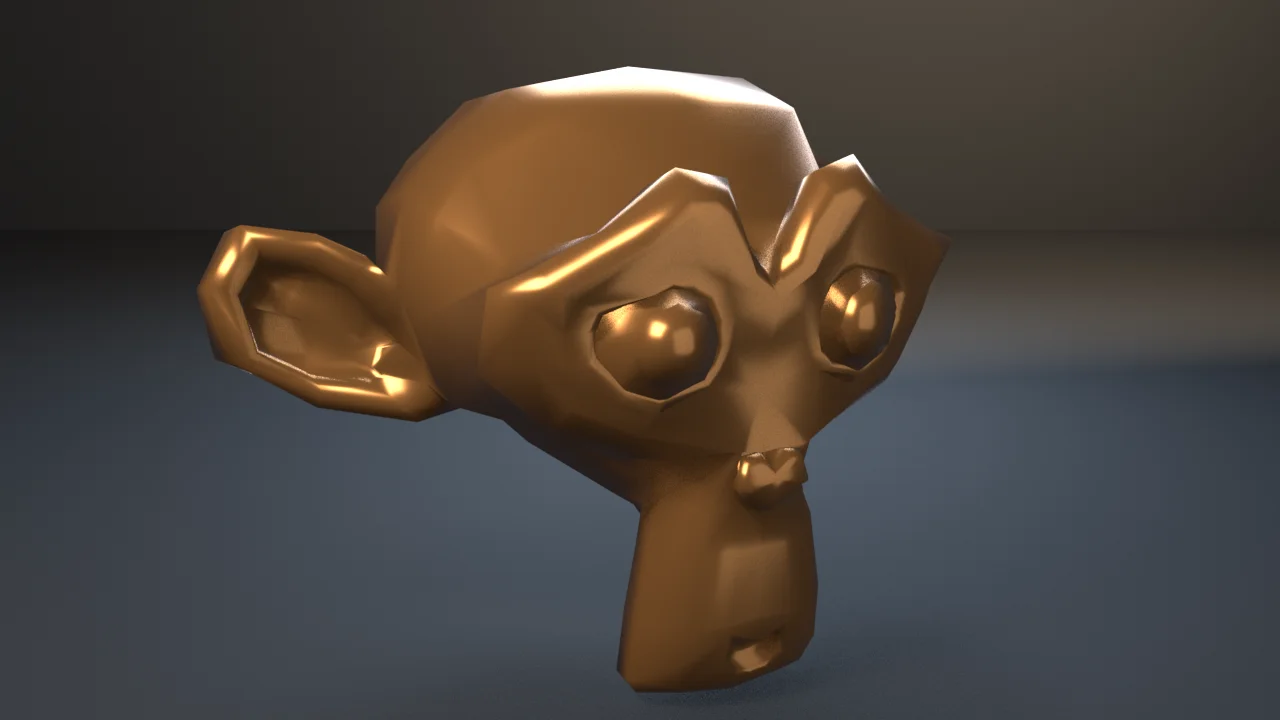
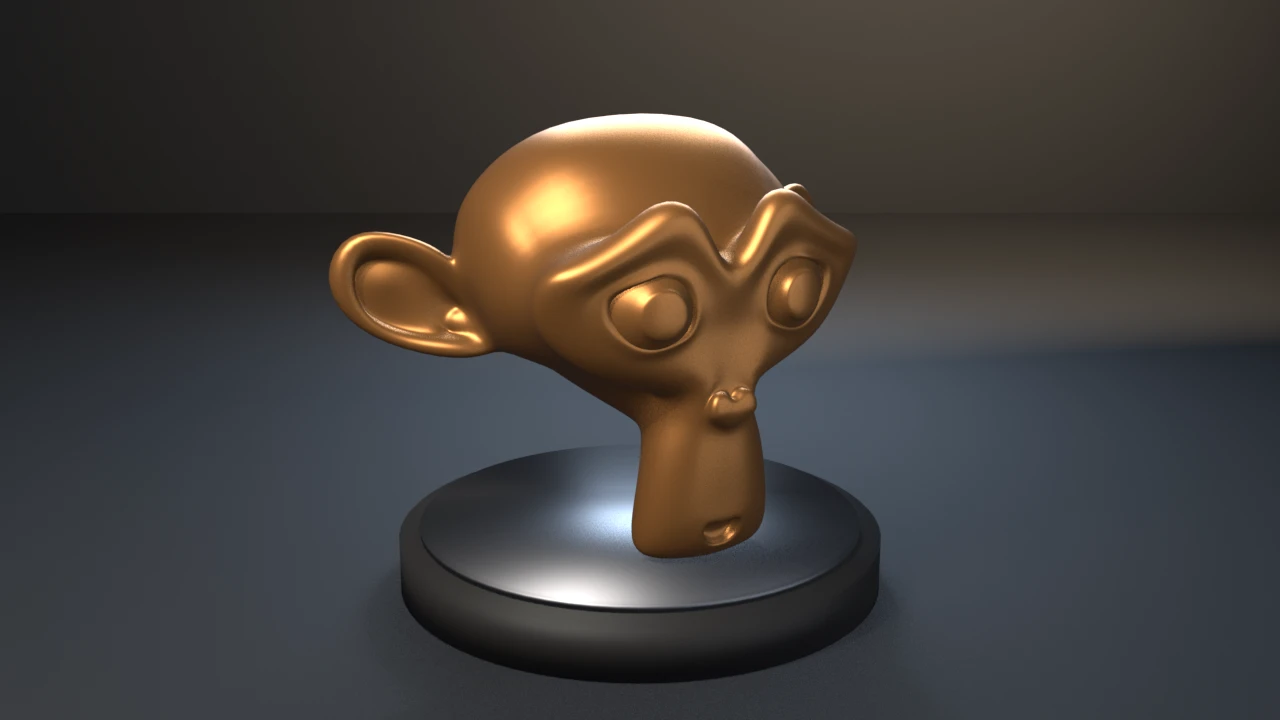
fix(examples): stand the turntable monkey on a turntable
Render path only, after the check. The 500-face head read as faceted plates
and hovered just above the floor. It now carries a subdivision modifier, is
seated 10 mm into the platter of a turntable plinth from its own lowest
evaluated vertex, and the copper is less glossy. Rotation keys, sampled
frames and exit codes are unchanged; framing measured out of band (fill y
0.789, margin 0.050) since the path has no framing call.

Changed region(s): [[0.1562, 0.0917, 0.75, 0.9778], [0.8125, 0.4583, 1.0, 0.5194]]

diff --git a/docs/gallery/turntable/index.html b/docs/gallery/turntable/index.html
@@ -16,13 +16,13 @@
   <meta property="og:image" content="https://tmhsdigital.github.io/Blender-Developer-Tools/gallery/assets/turntable-hero.webp" />
   <meta property="og:image:width" content="1280" />
   <meta property="og:image:height" content="720" />
-  <meta property="og:image:alt" content="A bronze monkey head (Suzanne) turned three-quarters on a dark studio floor." />
+  <meta property="og:image:alt" content="A smooth copper monkey head (Suzanne) turned three-quarters on a black turntable with a brushed metal platter." />
   <meta property="og:site_name" content="Blender Developer Tools" />
   <meta name="twitter:card" content="summary_large_image" />
   <meta name="twitter:title" content="turntable — Examples — Blender Developer Tools" />
   <meta name="twitter:description" content="A slotted-actions Z-rotation turntable keyed through the cross-version channelbag path (get_channelbag_for_slot)." />
   <meta name="twitter:image" content="https://tmhsdigital.github.io/Blender-Developer-Tools/gallery/assets/turntable-hero.webp" />
-  <meta name="twitter:image:alt" content="A bronze monkey head (Suzanne) turned three-quarters on a dark studio floor." />
+  <meta name="twitter:image:alt" content="A smooth copper monkey head (Suzanne) turned three-quarters on a black turntable with a brushed metal platter." />
   <style>
     /* fonts are deployed by the landing build (docs/fonts/) */
     @font-face { font-family: 'Barlow Condensed'; font-weight: 600; font-display: swap;
@@ -268,8 +268,8 @@
     <p>A slotted-actions Z-rotation turntable keyed through the cross-version channelbag path (get_channelbag_for_slot).</p>
   </header>
   <main id="main">
-    <button class="detail-hero" id="heroZoom" type="button" aria-label="View full size: A bronze monkey head (Suzanne) turned three-quarters on a dark studio floor.">
-      <img src="../assets/turntable-hero.webp" alt="A bronze monkey head (Suzanne) turned three-quarters on a dark studio floor." width="1280" height="720" />
+    <button class="detail-hero" id="heroZoom" type="button" aria-label="View full size: A smooth copper monkey head (Suzanne) turned three-quarters on a black turntable with a brushed metal platter.">
+      <img src="../assets/turntable-hero.webp" alt="A smooth copper monkey head (Suzanne) turned three-quarters on a black turntable with a brushed metal platter." width="1280" height="720" />
     </button>
     <p class="zoom-hint">Rendered headless by the example itself — click to zoom.</p>
     <div class="callout"><span class="tag">witnesses</span> Slotted-actions boundary: ensure-helper channelbag on 5.x, strip.channelbag on 4.4/4.5.</div>
@@ -291,6 +291,7 @@ blender --background --python turntable.py -- --no-keys
 blender --background --python turntable.py -- --output turntable.png
 blender --background --python turntable.py -- --output turntable.png --engine cycles</code></pre>
 <p>By default it runs only the <strong>frame-independent correctness check</strong>: it inserts the rotation keys, samples the object&#x27;s Z rotation at frame 1 vs a later frame, and asserts they <strong>differ</strong> (the keys drive playback). <code>--output</code> additionally renders a still; the full animated loop is a showcase extra, not part of the CI check.</p>
+<p>The still&#x27;s staging is render-only and runs after the check. The head gets a subdivision modifier (the 500-face monkey read as faceted plates) and is seated 10 mm into the platter of a turntable plinth, lifted from its own lowest evaluated vertex. It used to hover just above the floor with nothing under it. The rotation keys, the sampled frames and every exit code are unchanged. This render path does not call <code>gallery_framing.check_framing</code>, because adding it would add exit code 10. The framing was measured with the helper out of band instead: fill y 0.789, minimum margin 0.050, ok.</p>
 <h2>Exit codes</h2>
 <p>Per-script sequential checks. <code>9</code> is a valid check code; there is no rule against it.</p>
 <div class="table-wrap"><table><thead><tr><th scope="col">Code</th><th scope="col">Meaning</th></tr></thead><tbody><tr><td>0</td><td>Success</td></tr><tr><td>1</td><td>Uncaught exception (FATAL wrapper)</td></tr><tr><td>2</td><td>argparse / usage</td></tr><tr><td>3</td><td>Rotation keys do not drive playback (<code>--no-keys</code> lands here)</td></tr><tr><td>4</td><td><code>--output</code> produced no file</td></tr><tr><td>5</td><td>Wrong-era EEVEE engine id was accepted</td></tr></tbody></table></div>
@@ -376,9 +377,72 @@ FRAMES = <span class="n">36</span>
     print(<span class="s">f&quot;</span><span class="s">branch=</span>{branch}<span class="s"> rot_z f1=</span>{r1}<span class="s"> fmid=</span>{rmid}<span class="s"> fend=</span>{rend}<span class="s"> drives=</span>{drives}<span class="s">&quot;</span>)
     <span class="k">return</span> drives
 
+PLINTH_R = <span class="n">1.15</span>
+PLINTH_H = <span class="n">0.28</span>
+PLATTER_R = <span class="n">1.05</span>
+PLATTER_H = <span class="n">0.05</span>
+SEAT = <span class="n">0.01</span>
+
+
+<span class="k">def</span> stage_turntable(obj):
+    <span class="s">&quot;&quot;&quot;Render-only staging, after the check has run: a turntable to turn on.
+
+    The head is smoothed by a subdivision modifier (the 500-face monkey read
+    as faceted plates), seated SEAT into a platter on a plinth, and lifted so
+    its lowest evaluated vertex lands there. It used to hover just above the
+    floor with nothing under it. Rotation keys and the correctness samples
+    are untouched; only location and a modifier change here.
+    &quot;&quot;&quot;</span>
+    <span class="k">import</span> bmesh
+    sub = obj.modifiers.new(<span class="s">&quot;Smooth&quot;</span>, <span class="s">&#x27;SUBSURF&#x27;</span>)
+    sub.levels = <span class="n">2</span>
+    sub.render_levels = <span class="n">2</span>
+    dg = bpy.context.evaluated_depsgraph_get()
+    ev = obj.evaluated_get(dg)
+    me = ev.to_mesh()
+    <span class="k">try</span>:
+        zmin = min((ev.matrix_world @ v.co).z <span class="k">for</span> v <span class="k">in</span> me.vertices)
+    <span class="k">finally</span>:
+        ev.to_mesh_clear()
+    obj.location.z += (PLINTH_H + PLATTER_H - SEAT) - zmin
+    b = obj.active_material.node_tree.nodes[<span class="s">&#x27;Principled BSDF&#x27;</span>]
+    <span class="c"># 0.25 blew every brow and ear edge out to white under the key</span>
+    b.inputs[<span class="s">&#x27;Roughness&#x27;</span>].default_value = <span class="n">0.38</span>
+    parts = []
+    <span class="k">for</span> nm, r, z0, h, col, metal, rough <span class="k">in</span> (
+        (<span class="s">&quot;Plinth&quot;</span>, PLINTH_R, <span class="n">0.0</span>, PLINTH_H, (<span class="n">0.035</span>, <span class="n">0.032</span>, <span class="n">0.03</span>), <span class="n">0.0</span>, <span class="n">0.55</span>),
+        (<span class="s">&quot;Platter&quot;</span>, PLATTER_R, PLINTH_H - <span class="n">0.004</span>, PLATTER_H + <span class="n">0.004</span>,
+         (<span class="n">0.42</span>, <span class="n">0.42</span>, <span class="n">0.44</span>), <span class="n">1.0</span>, <span class="n">0.45</span>),
+    ):
+        mesh = bpy.data.meshes.new(nm)
+        bm = bmesh.new()
+        <span class="k">try</span>:
+            bmesh.ops.create_cone(bm, cap_ends=<span class="k">True</span>, segments=<span class="n">64</span>, radius1=r,
+                                  radius2=r, depth=h)
+            bmesh.ops.translate(bm, vec=(<span class="n">0.0</span>, <span class="n">0.0</span>, z0 + h / <span class="n">2.0</span>), verts=bm.verts)
+            bmesh.ops.bevel(bm, geom=[e <span class="k">for</span> e <span class="k">in</span> bm.edges <span class="k">if</span> len(e.link_faces) == <span class="n">2</span>
+                                      <span class="k">and</span> e.calc_face_angle(<span class="n">0.0</span>) &gt; <span class="n">1.0</span>],
+                            offset=<span class="n">0.012</span>, segments=<span class="n">2</span>, affect=<span class="s">&#x27;EDGES&#x27;</span>)
+            bm.to_mesh(mesh)
+        <span class="k">finally</span>:
+            bm.free()
+        mesh.shade_smooth()
+        mat = bpy.data.materials.new(nm); mat.use_nodes = <span class="k">True</span>
+        pb = mat.node_tree.nodes[<span class="s">&#x27;Principled BSDF&#x27;</span>]
+        pb.inputs[<span class="s">&#x27;Base Color&#x27;</span>].default_value = (*col, <span class="n">1.0</span>)
+        pb.inputs[<span class="s">&#x27;Metallic&#x27;</span>].default_value = metal
+        pb.inputs[<span class="s">&#x27;Roughness&#x27;</span>].default_value = rough
+        mesh.materials.append(mat)
+        ob = bpy.data.objects.new(nm, mesh)
+        bpy.context.collection.objects.link(ob)
+        parts.append(ob)
+    <span class="k">return</span> parts
+
+
 <span class="k">def</span> render_still(obj, path, engine):
     <span class="k">import</span> bmesh
     sc = bpy.context.scene
+    stage_turntable(obj)
     fme = bpy.data.meshes.new(<span class="s">&quot;Floor&quot;</span>); bm = bmesh.new()
     <span class="k">try</span>:
         bmesh.ops.create_grid(bm, x_segments=<span class="n">1</span>, y_segments=<span class="n">1</span>, size=<span class="n">30.0</span>); bm.to_mesh(fme)
@@ -396,8 +460,8 @@ FRAMES = <span class="n">36</span>
     wall.rotation_euler = (math.radians(<span class="n">90</span>), <span class="n">0</span>, <span class="n">0</span>); bpy.context.collection.objects.link(wall)
     w = bpy.data.worlds.new(<span class="s">&quot;W&quot;</span>); w.use_nodes = <span class="k">True</span>
     w.node_tree.nodes[<span class="s">&quot;Background&quot;</span>].inputs[<span class="n">0</span>].default_value = (<span class="n">0.02</span>, <span class="n">0.021</span>, <span class="n">0.025</span>, <span class="n">1</span>); sc.world = w
-    aim = bpy.data.objects.new(<span class="s">&quot;Aim&quot;</span>, <span class="k">None</span>); aim.location = (<span class="n">0</span>, <span class="n">0</span>, <span class="n">1.0</span>); bpy.context.collection.objects.link(aim)
-    cam = bpy.data.objects.new(<span class="s">&quot;cam&quot;</span>, bpy.data.cameras.new(<span class="s">&quot;cam&quot;</span>)); cam.location = (<span class="n">0</span>, -<span class="n">5.9</span>, <span class="n">2.4</span>)
+    aim = bpy.data.objects.new(<span class="s">&quot;Aim&quot;</span>, <span class="k">None</span>); aim.location = (<span class="n">0</span>, <span class="n">0</span>, <span class="n">1.1</span>); bpy.context.collection.objects.link(aim)
+    cam = bpy.data.objects.new(<span class="s">&quot;cam&quot;</span>, bpy.data.cameras.new(<span class="s">&quot;cam&quot;</span>)); cam.location = (<span class="n">0</span>, -<span class="n">8.0</span>, <span class="n">3.4</span>)
     bpy.context.collection.objects.link(cam); sc.camera = cam
     c = cam.constraints.new(<span class="s">&#x27;TRACK_TO&#x27;</span>); c.target = aim; c.track_axis = <span class="s">&#x27;TRACK_NEGATIVE_Z&#x27;</span>; c.up_axis = <span class="s">&#x27;UP_Y&#x27;</span>
     <span class="k">for</span> nm, loc, en, size, col <span class="k">in</span> [(<span class="s">&quot;K&quot;</span>, (-<span class="n">4</span>, -<span class="n">5</span>, <span class="n">7</span>), <span class="n">620</span>, <span class="n">5.0</span>, (<span class="n">1.0</span>, <span class="n">0.96</span>, <span class="n">0.9</span>)),
@@ -472,7 +536,7 @@ FRAMES = <span class="n">36</span>
   </main>
   <dialog class="lightbox" id="lightbox" aria-label="Full-size render">
     <button class="lightbox-close" type="button" autofocus>Close</button>
-    <img src="../assets/turntable-hero.webp" alt="A bronze monkey head (Suzanne) turned three-quarters on a dark studio floor." />
+    <img src="../assets/turntable-hero.webp" alt="A smooth copper monkey head (Suzanne) turned three-quarters on a black turntable with a brushed metal platter." />
   </dialog>
   <footer>
     <div class="statusbar">

diff --git a/examples/turntable/turntable.py b/examples/turntable/turntable.py
@@ -72,9 +72,72 @@ def correctness(obj):
     print(f"branch={branch} rot_z f1={r1} fmid={rmid} fend={rend} drives={drives}")
     return drives
 
+PLINTH_R = 1.15
+PLINTH_H = 0.28
+PLATTER_R = 1.05
+PLATTER_H = 0.05
+SEAT = 0.01
+
+
+def stage_turntable(obj):
+    """Render-only staging, after the check has run: a turntable to turn on.
+
+    The head is smoothed by a subdivision modifier (the 500-face monkey read
+    as faceted plates), seated SEAT into a platter on a plinth, and lifted so
+    its lowest evaluated vertex lands there. It used to hover just above the
+    floor with nothing under it. Rotation keys and the correctness samples
+    are untouched; only location and a modifier change here.
+    """
+    import bmesh
+    sub = obj.modifiers.new("Smooth", 'SUBSURF')
+    sub.levels = 2
+    sub.render_levels = 2
+    dg = bpy.context.evaluated_depsgraph_get()
+    ev = obj.evaluated_get(dg)
+    me = ev.to_mesh()
+    try:
+        zmin = min((ev.matrix_world @ v.co).z for v in me.vertices)
+    finally:
+        ev.to_mesh_clear()
+    obj.location.z += (PLINTH_H + PLATTER_H - SEAT) - zmin
+    b = obj.active_material.node_tree.nodes['Principled BSDF']
+    # 0.25 blew every brow and ear edge out to white under the key
+    b.inputs['Roughness'].default_value = 0.38
+    parts = []
+    for nm, r, z0, h, col, metal, rough in (
+        ("Plinth", PLINTH_R, 0.0, PLINTH_H, (0.035, 0.032, 0.03), 0.0, 0.55),
+        ("Platter", PLATTER_R, PLINTH_H - 0.004, PLATTER_H + 0.004,
+         (0.42, 0.42, 0.44), 1.0, 0.45),
+    ):
+        mesh = bpy.data.meshes.new(nm)
+        bm = bmesh.new()
+        try:
+            bmesh.ops.create_cone(bm, cap_ends=True, segments=64, radius1=r,
+                                  radius2=r, depth=h)
+            bmesh.ops.translate(bm, vec=(0.0, 0.0, z0 + h / 2.0), verts=bm.verts)
+            bmesh.ops.bevel(bm, geom=[e for e in bm.edges if len(e.link_faces) == 2
+                                      and e.calc_face_angle(0.0) > 1.0],
+                            offset=0.012, segments=2, affect='EDGES')
+            bm.to_mesh(mesh)
+        finally:
+            bm.free()
+        mesh.shade_smooth()
+        mat = bpy.data.materials.new(nm); mat.use_nodes = True
+        pb = mat.node_tree.nodes['Principled BSDF']
+        pb.inputs['Base Color'].default_value = (*col, 1.0)
+        pb.inputs['Metallic'].default_value = metal
+        pb.inputs['Roughness'].default_value = rough
+        mesh.materials.append(mat)
+        ob = bpy.data.objects.new(nm, mesh)
+        bpy.context.collection.objects.link(ob)
+        parts.append(ob)
+    return parts
+
+
 def render_still(obj, path, engine):
     import bmesh
     sc = bpy.context.scene
+    stage_turntable(obj)
     fme = bpy.data.meshes.new("Floor"); bm = bmesh.new()
     try:
         bmesh.ops.create_grid(bm, x_segments=1, y_segments=1, size=30.0); bm.to_mesh(fme)
@@ -92,8 +155,8 @@ def render_still(obj, path, engine):
     wall.rotation_euler = (math.radians(90), 0, 0); bpy.context.collection.objects.link(wall)
     w = bpy.data.worlds.new("W"); w.use_nodes = True
     w.node_tree.nodes["Background"].inputs[0].default_value = (0.02, 0.021, 0.025, 1); sc.world = w
-    aim = bpy.data.objects.new("Aim", None); aim.location = (0, 0, 1.0); bpy.context.collection.objects.link(aim)
-    cam = bpy.data.objects.new("cam", bpy.data.cameras.new("cam")); cam.location = (0, -5.9, 2.4)
+    aim = bpy.data.objects.new("Aim", None); aim.location = (0, 0, 1.1); bpy.context.collection.objects.link(aim)
+    cam = bpy.data.objects.new("cam", bpy.data.cameras.new("cam")); cam.location = (0, -8.0, 3.4)
     bpy.context.collection.objects.link(cam); sc.camera = cam
     c = cam.constraints.new('TRACK_TO'); c.target = aim; c.track_axis = 'TRACK_NEGATIVE_Z'; c.up_axis = 'UP_Y'
     for nm, loc, en, size, col in [("K", (-4, -5, 7), 620, 5.0, (1.0, 0.96, 0.9)),

diff --git a/examples/turntable/README.md b/examples/turntable/README.md
@@ -29,6 +29,15 @@ keys, samples the object's Z rotation at frame 1 vs a later frame, and asserts t
 (the keys drive playback). `--output` additionally renders a still; the full animated loop is
 a showcase extra, not part of the CI check.
 
+The still's staging is render-only and runs after the check. The head gets a
+subdivision modifier (the 500-face monkey read as faceted plates) and is
+seated 10 mm into the platter of a turntable plinth, lifted from its own
+lowest evaluated vertex. It used to hover just above the floor with nothing
+under it. The rotation keys, the sampled frames and every exit code are
+unchanged. This render path does not call `gallery_framing.check_framing`,
+because adding it would add exit code 10. The framing was measured with the
+helper out of band instead: fill y 0.789, minimum margin 0.050, ok.
+
 ## Exit codes
 
 Per-script sequential checks. `9` is a valid check code; there is no rule
